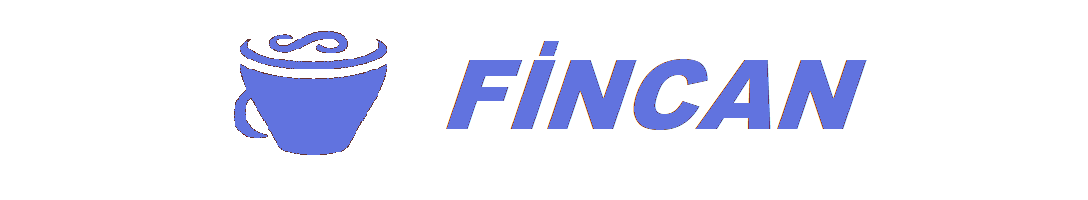
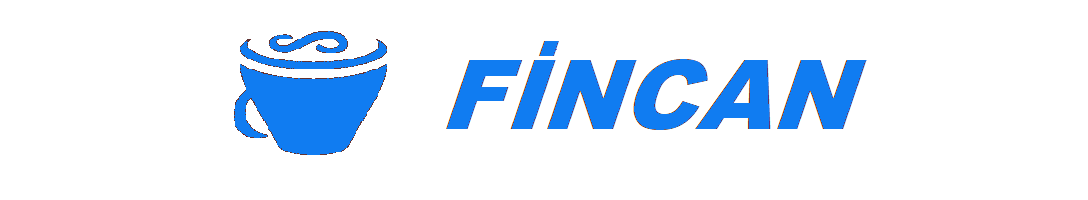
visual fixes

Changed region(s): [[0.4062, 0.3, 0.8125, 0.66], [0.1875, 0.15, 0.375, 0.78], [0.5, 0.21, 0.5312, 0.27]]

diff --git a/css/navbar.css b/css/navbar.css
@@ -23,7 +23,7 @@ body {
 
 .nav > .nav-header > .nav-title {
   display: inline-block;
-  color: #6173DF;
+  color: #107cf1;
   padding: 15px 15px 15px 5px;
 }
 
@@ -52,7 +52,7 @@ body {
 
 .nav > .nav-links > a:hover {
   background-color: #ffecfc;
-  color: #6173DF;
+  color: #107cf1;
 }
 
 .nav > #nav-check {
@@ -62,7 +62,7 @@ body {
 .nav-icon{
     font-size: 20px;
     padding: 0px 10px 0px 0px !important;
-    color: #6173DF;
+    color: #107cf1;
     font-weight: bold;
   text-align: center;
 
@@ -85,7 +85,7 @@ body {
 }
 
 .nav-bottom .add-button {
-  background-color: #6173DF;
+  background-color: #107cf1;
   padding: 10px;
   cursor: pointer;
   font-size: 15px;
@@ -127,7 +127,7 @@ body {
 
 .dropdown-content-nav a:hover {
   background-color: rgba(245, 245, 245, 0.817);
-  color: #6173DF;
+  color: #107cf1;
 }
 
 .dropdown-nav:hover .dropdown-content-nav {

diff --git a/css/register.css b/css/register.css
@@ -24,8 +24,10 @@ body {
 
 .button-style{
   width: 100% !important;
-  background: #6173DF !important;
-  border: #6173DF !important;
+  background: #107cf1
+  !important;
+  border: #107cf1
+  !important;
   height: 46px;
   font-size: 14px;
   letter-spacing: 1px;
@@ -34,17 +36,19 @@ body {
   transition: all .2s cubic-bezier(.25,.46,.45,.94);
 }
 .button-style:hover{
-  background: #919ee6 !important;
-  border: #6173DF !important;
+  background: #5c71e9 !important;
+  border: #107cf1
+  !important;
 }
 
 .link-style{
-  color: #6173DF !important;
+  color: #107cf1
+  !important;
   text-decoration: none;
 }
 
 .link-style:hover{
-  color: #919ee6 ;
+  color: #5c71e9;
 }
 
 

diff --git a/js/restprof.js b/js/restprof.js
@@ -19,7 +19,7 @@ const uploadImage = () => {
 }
 
 const uploadImageFirestore = (url, res) => {
-    var resRef = db.collection("resturant").doc(res.uid);
+    var resRef = db.collection("restaurant").doc(res.uid);
     resRef.update({
         imageurl: url
     })

diff --git a/css/restaurantDash.css b/css/restaurantDash.css
@@ -119,7 +119,7 @@ body {
 
 .dropdown-content-nav a:hover {
   background-color: rgba(245, 245, 245, 0.817);
-  color: #6173DF;
+  color: #107cf1;
 }
 
 .dropdown-nav:hover .dropdown-content-nav {

diff --git a/css/orders.css b/css/orders.css
@@ -14,7 +14,7 @@ body {
     transition: all 0.3s;
   }
   a:hover {
-    color: #b721ff;
+    color: #4a33af;
   }
   
   .tabbed {
